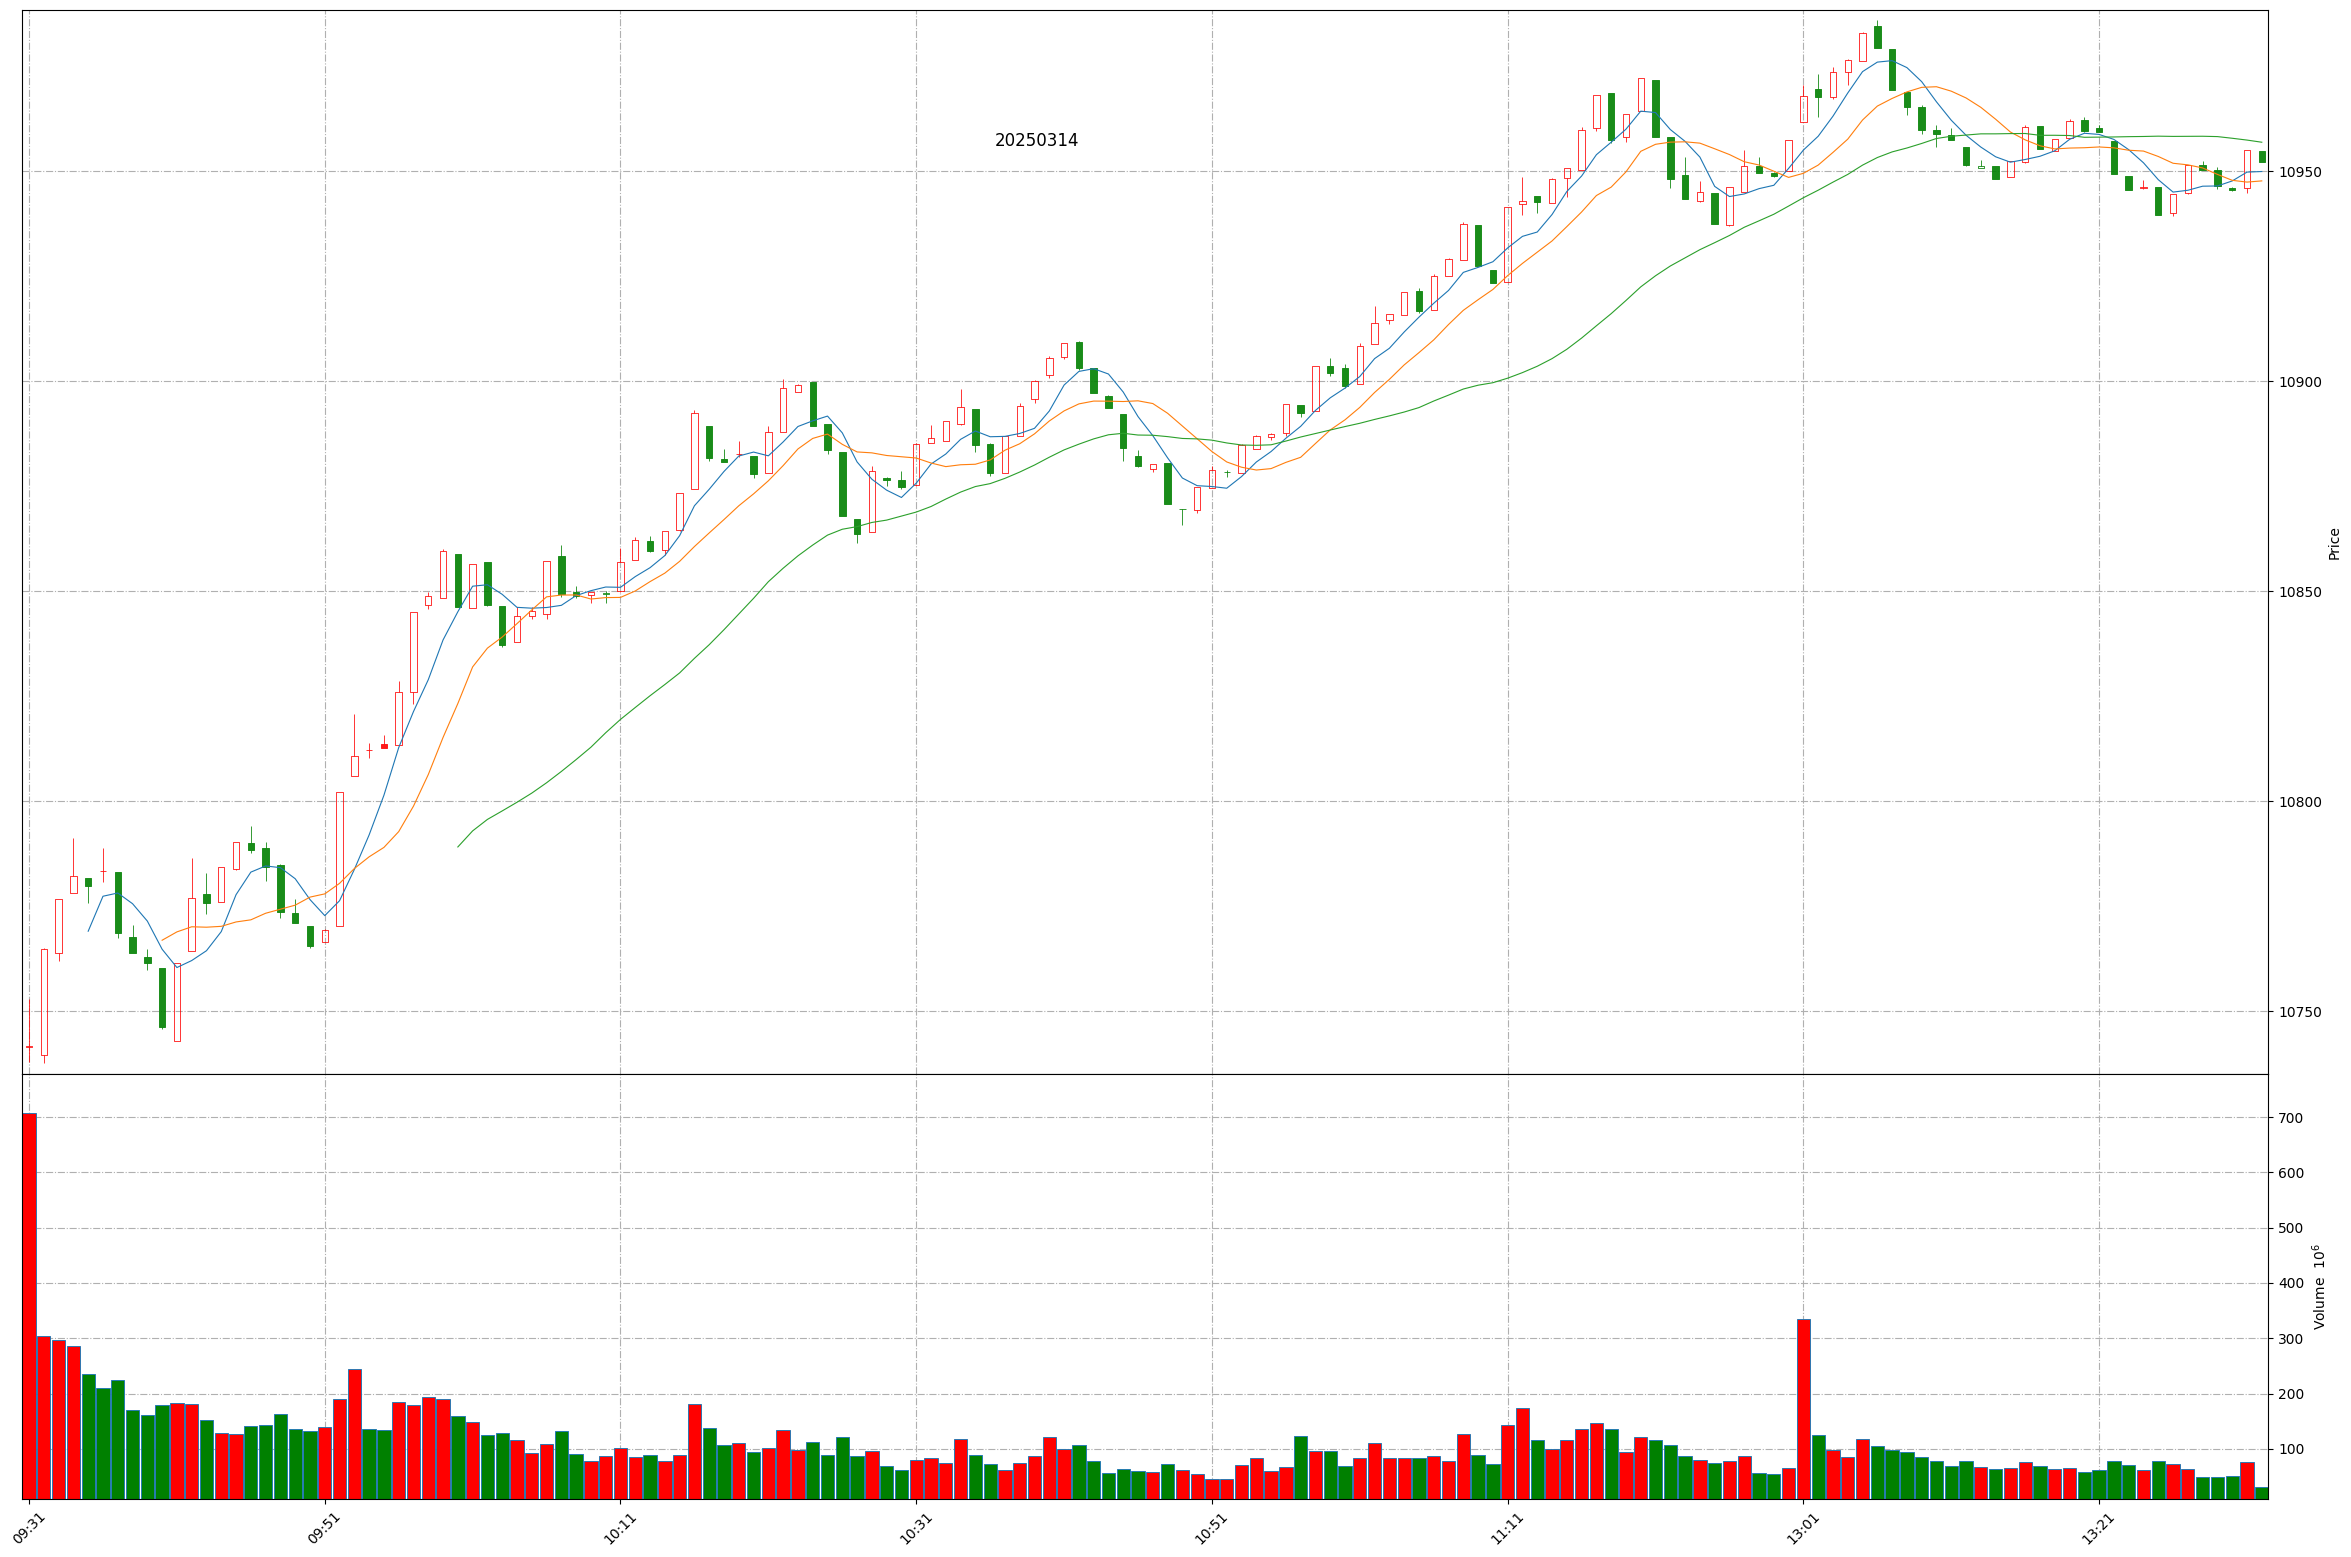
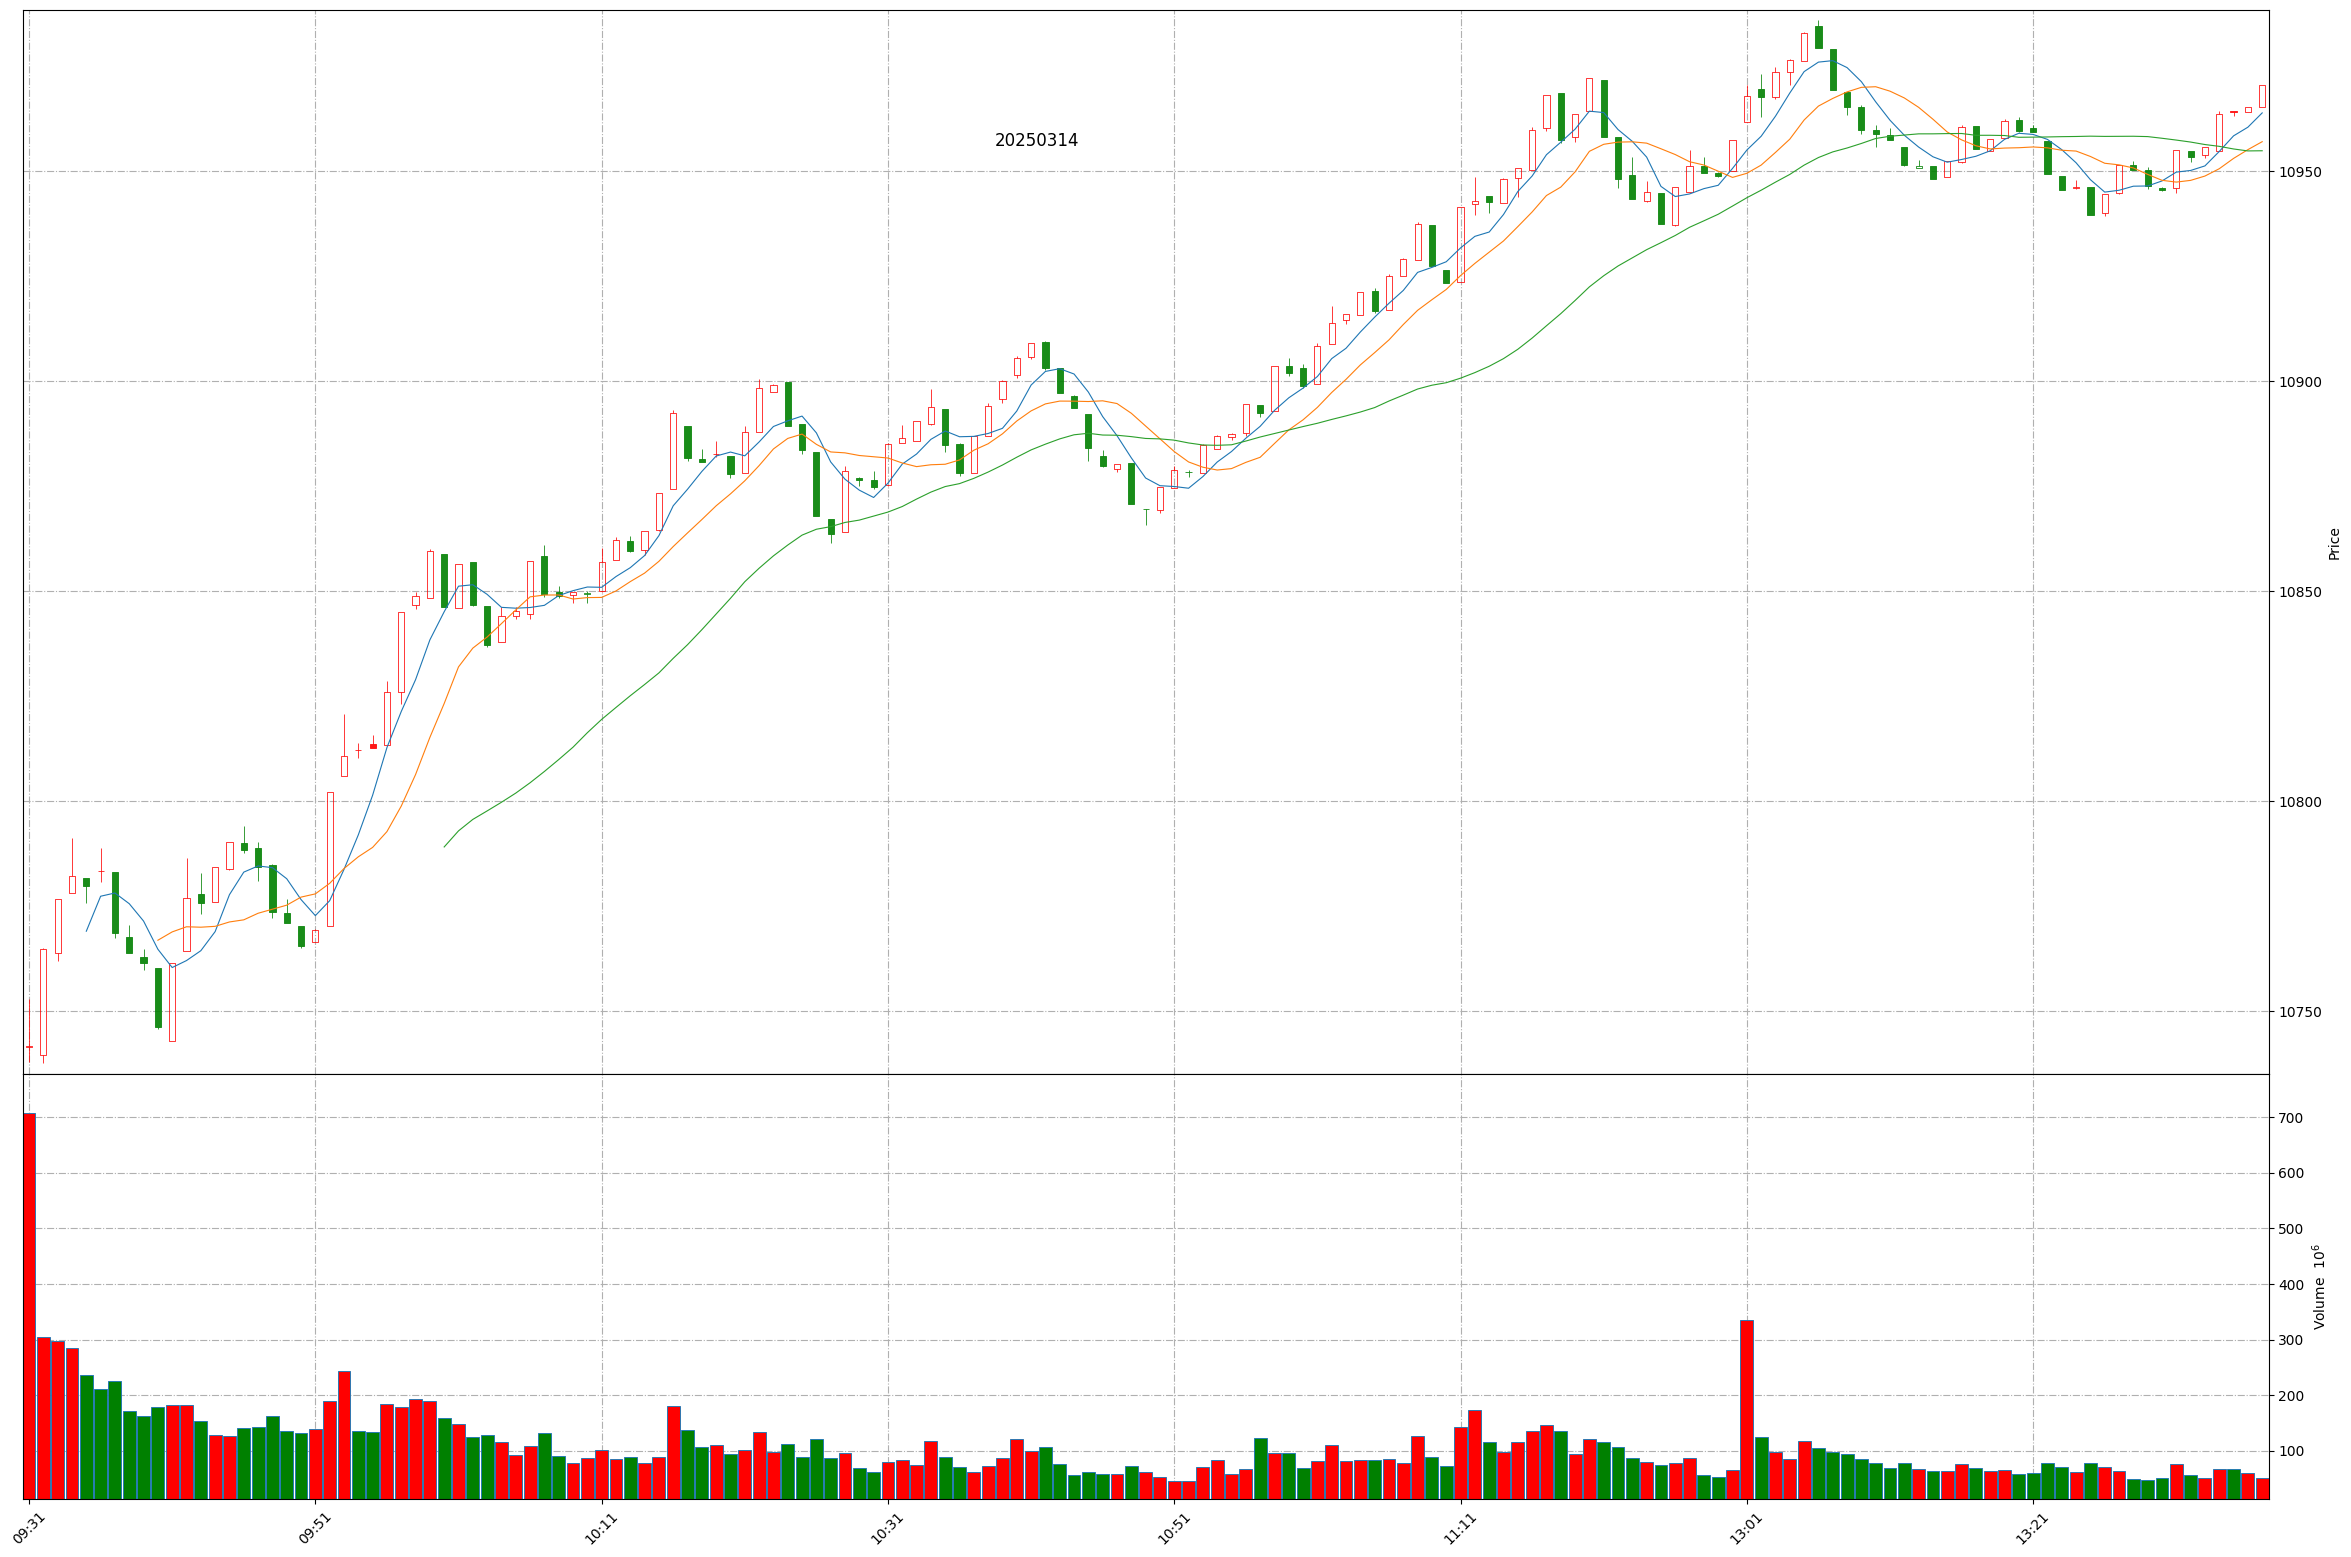
Github action update at 2025-03-14 13:36:58.

diff --git a/README.md b/README.md
@@ -1,11 +1,11 @@
 
 # Daily-A-share-market-quotes 每日 A 股指数（5min 更新）- 20250314
 
-### 上证指数 20250314 13:31
+### 上证指数 20250314 13:36
 ![](./fig/2025/3/20250314-sh000001.png)
 
-### 深证成指 20250314 13:31
+### 深证成指 20250314 13:36
 ![](./fig/2025/3/20250314-sz399001.png)
 
-### 北证50 20250314 13:31
+### 北证50 20250314 13:36
 ![](./fig/2025/3/20250314-bj899050.png)
